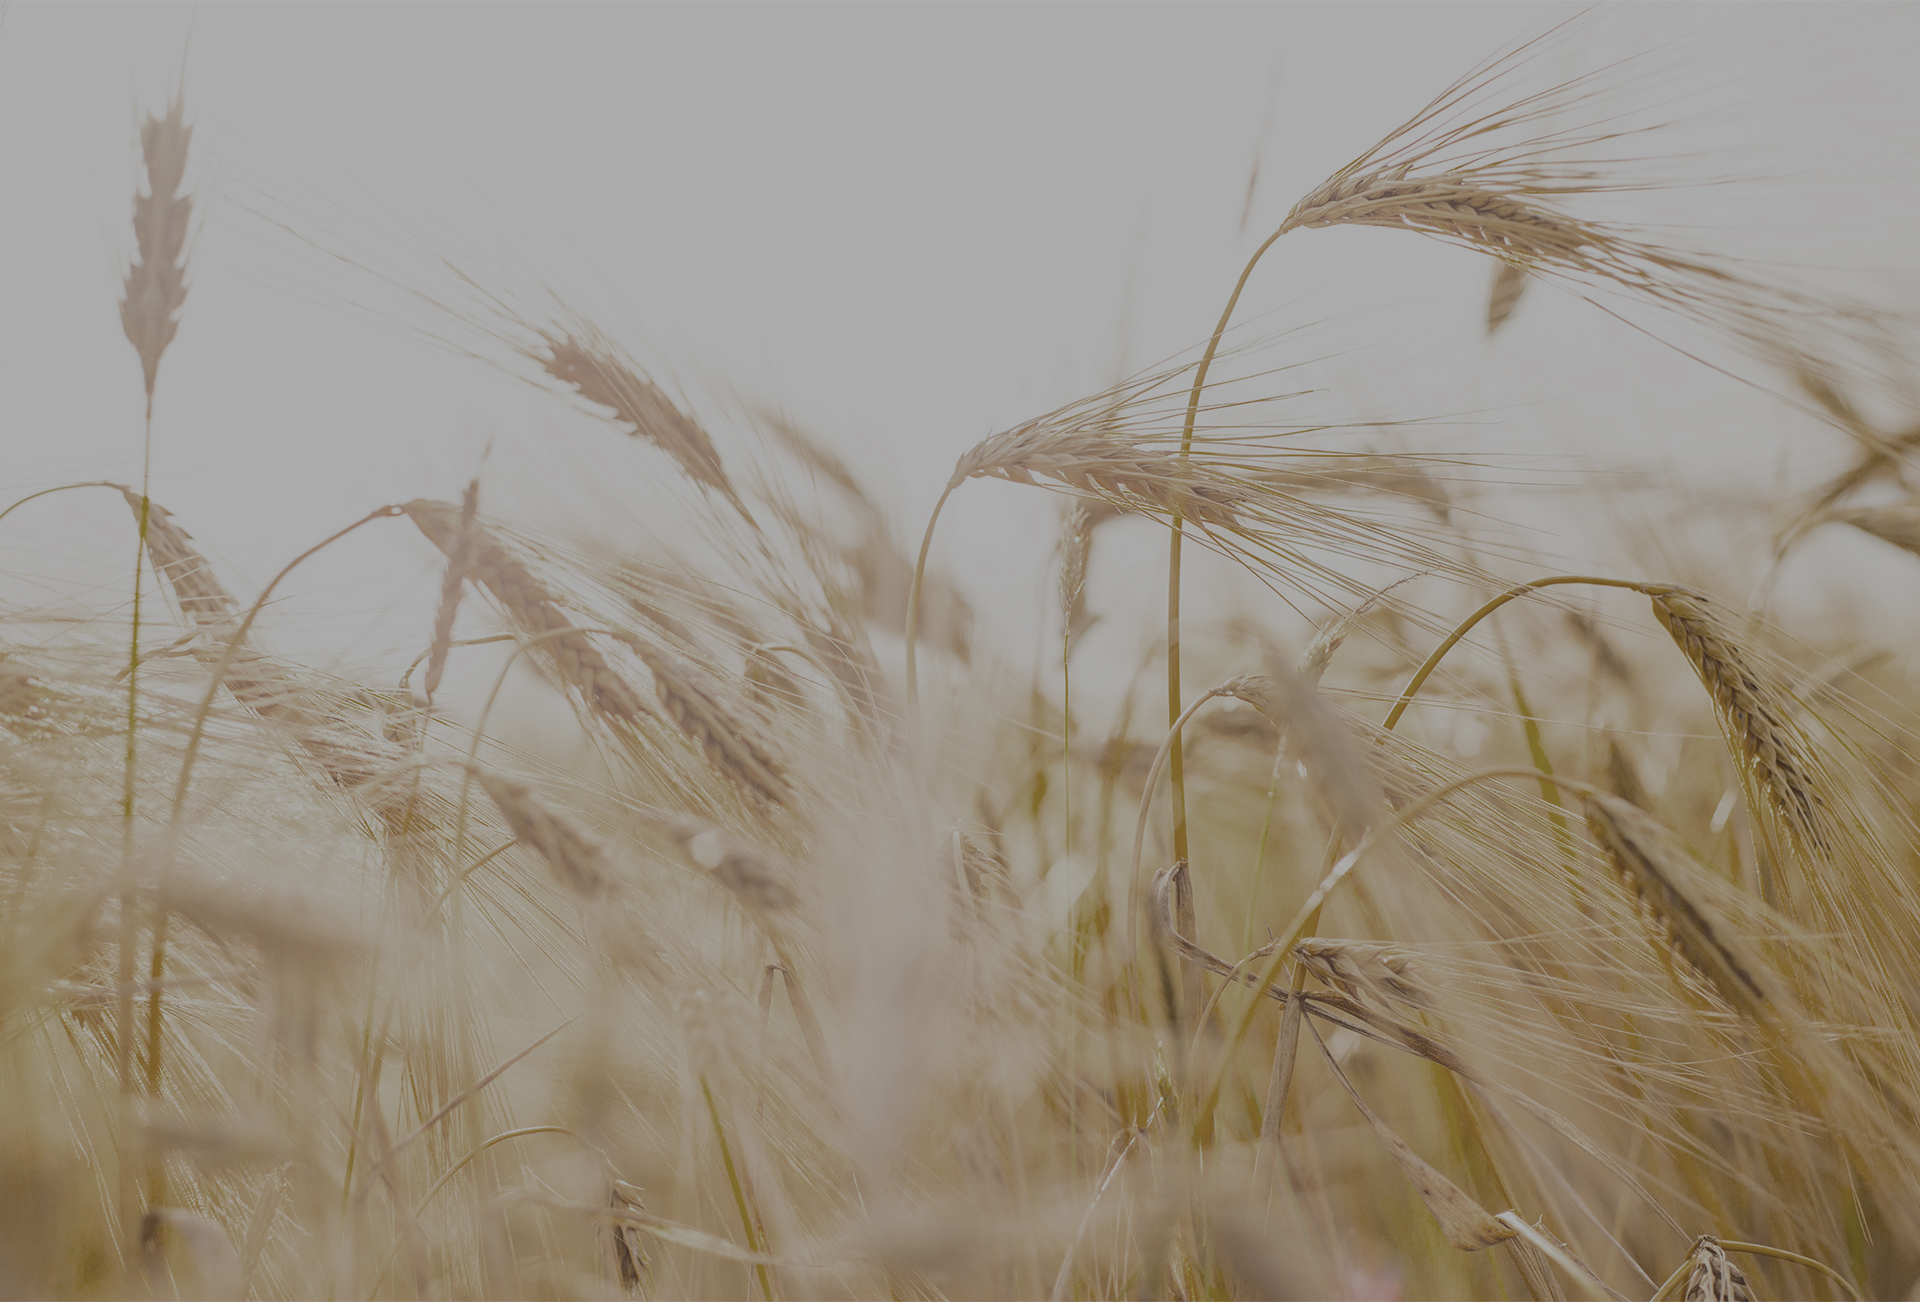
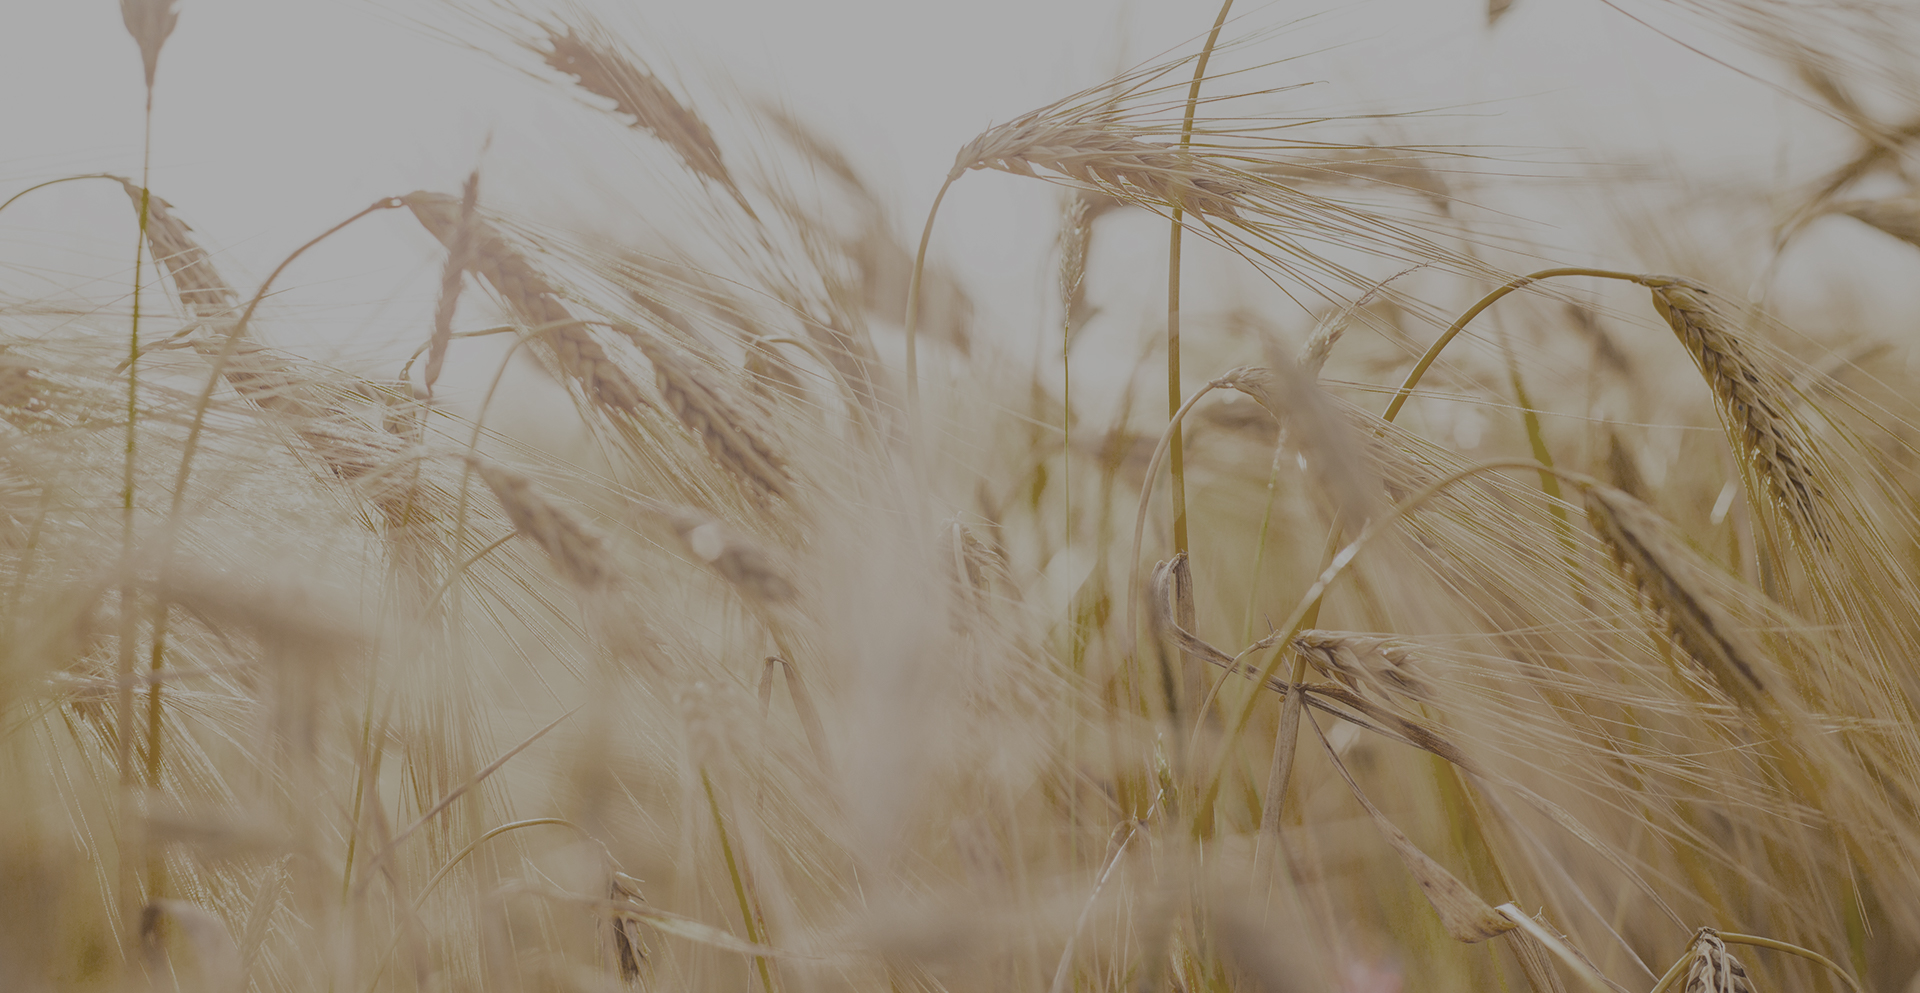
crop images, set sections

diff --git a/css/style.css b/css/style.css
@@ -5,42 +5,54 @@
 
 }
 .section1 {
-  height: 972px;
+  height: 970px;
   background-image: url("../img/bg1.jpg");
 }
 .section2 {
-
+  height: 740px;
+  background-color: #f4f4f4;
 }
 .section3 {
-
+  height: 440px;
+  background-color: #fff;
 }
 .section4 {
-
+  height: 980px;
+  background-color: #f4f4f4;
 }
 .section5 {
-
+  height: 590px;
+  background-color: #fff;
 }
 .section6 {
-
+  height: 490px;
+  background-color: #353535;
 }
 .section7 {
-
+  height: 750px;
+  background-color: #fff;
 }
 .section8 {
-
+  height: 1151px;
+  background-image: url("../img/laptop_fullscreen.jpg");
 }
 .section9 {
-
+  height: 1250px;
+  background-color: #fff;
 }
 .section10 {
-
+  height: 993px;
+  background-image: url("../img/bg2.jpg");
 }
 .section11 {
-
+  height: 990px;
+  background-color: #f4f4f4;
 }
 .section12 {
-
+  height: 370px;
+  background-color: #fff;
 }
 .footer {
-
+  height: 425px;
+  background-color: #353535;
 }
